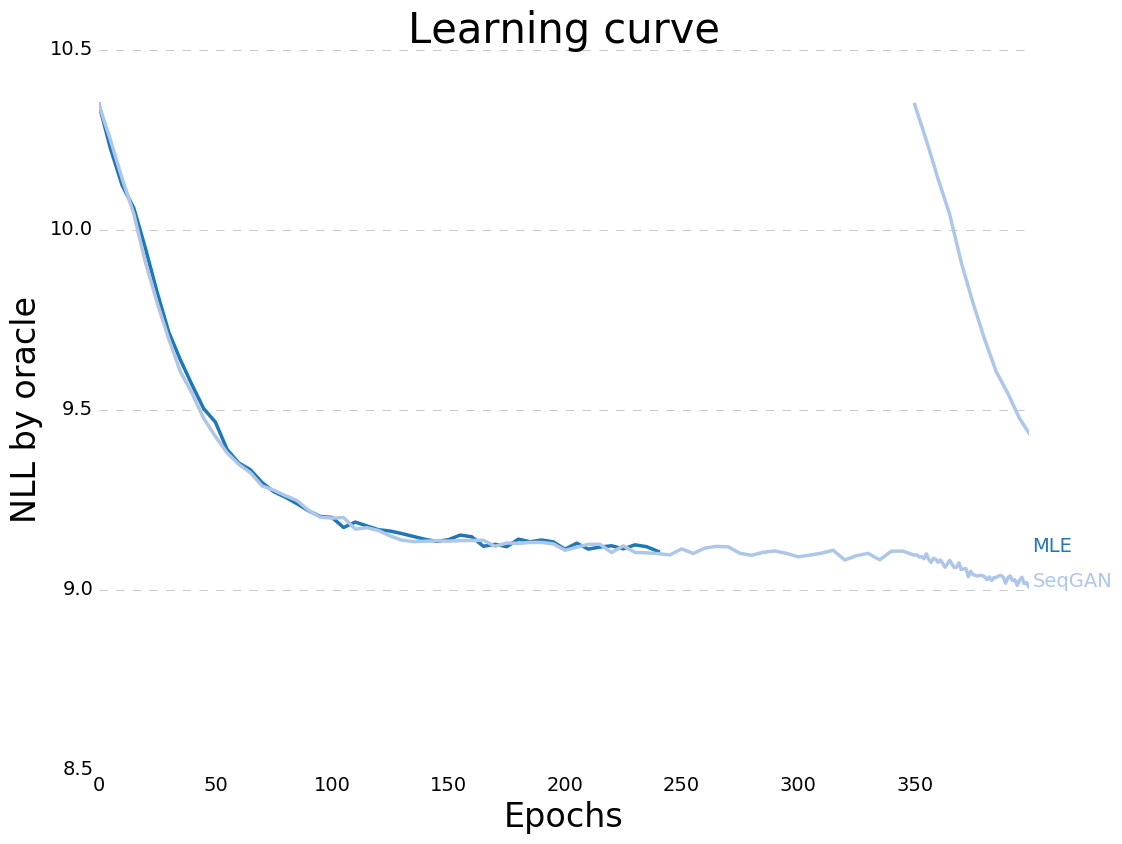
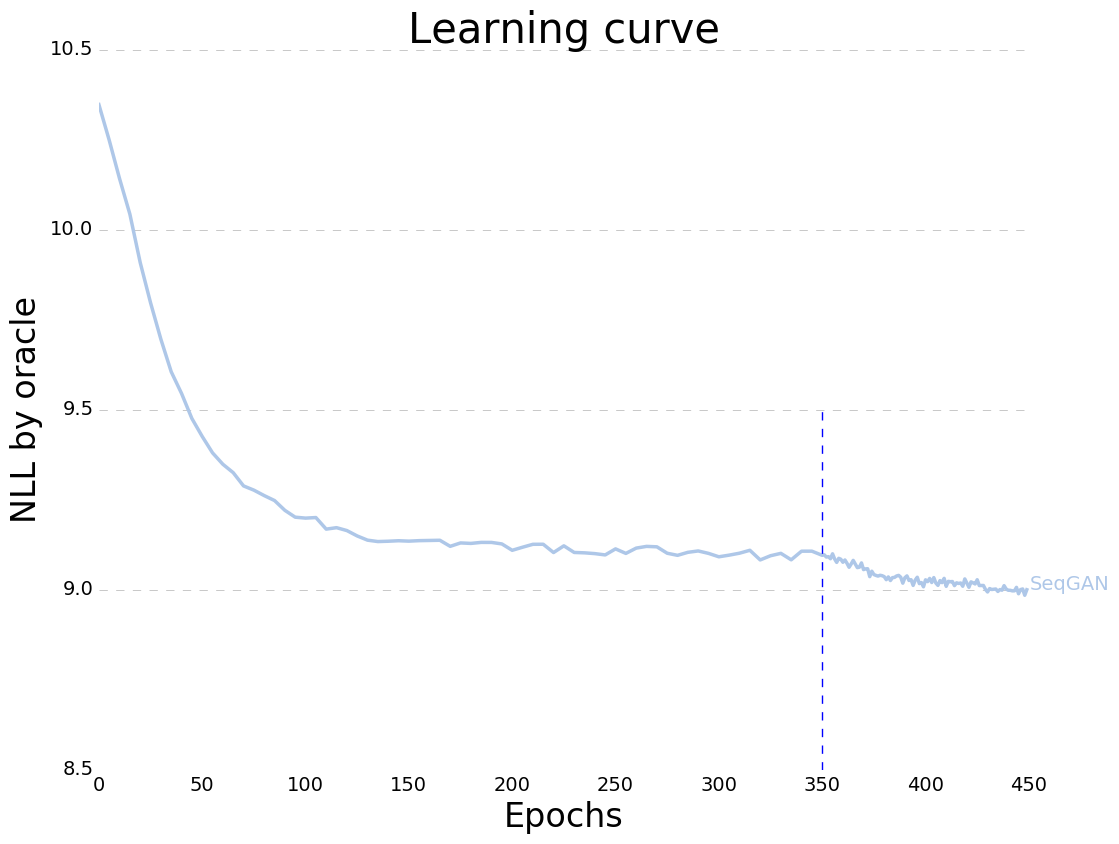
makes nice plot

diff --git a/MLE_SeqGAN/make_plots.py b/MLE_SeqGAN/make_plots.py
@@ -9,6 +9,12 @@ mle_data = cPickle.load(open('save/mle-loss-20170304-015334.pkl'))
 new_seqgan_data = cPickle.load(open('save/seqgan-retrained.pkl'))
 seqgan_data = cPickle.load(open('save/seqgan-loss-20170305-085624.pkl'))
 
+# hacky way to reconstruct full seqgan data
+new_seqgan_data = new_seqgan_data[70:120]
+for i in range(len(new_seqgan_data)): new_seqgan_data[i,0] += 50
+seqgan_data = np.concatenate((seqgan_data, new_seqgan_data), axis=0)
+mle_data = seqgan_data[:71]
+
 # These are the "Tableau 20" colors as RGB.    
 tableau20 = [(31, 119, 180), (174, 199, 232), (255, 127, 14), (255, 187, 120),    
              (44, 160, 44), (152, 223, 138), (214, 39, 40), (255, 152, 150),    
@@ -39,12 +45,12 @@ ax.get_xaxis().tick_bottom()
 ax.get_yaxis().tick_left()  
 print mle_data[0,0], mle_data[-1,0]
 print seqgan_data[0,0], (seqgan_data[-1, 0] + new_seqgan_data[-1,0])
-xmin, xmax, ymin, ymax = min(mle_data[0, 0], seqgan_data[0,0]), max(mle_data[-1,0],seqgan_data[-1,0] + new_seqgan_data[-1,0]), 8.5, 10.5  
+xmin, xmax, ymin, ymax = min(mle_data[0, 0], seqgan_data[0,0]), max(mle_data[-1,0], seqgan_data[-1,0]), 8.5, 10.5  
   
 # Limit the range of the plot to only where the data is.    
 # Avoid unnecessary whitespace.    
 plt.ylim(ymin, ymax)    
-plt.xlim(xmin, xmax)    
+plt.xlim(xmin, xmax+1)    
   
 # Make sure your axis ticks are large enough to be easily read.    
 # You don't want your viewers squinting to read your plot.    
@@ -70,35 +76,35 @@ methods = ['MLE', 'SeqGAN']
 
 for rank, column in enumerate(methods):
     if rank == 0:    
-    	# Plot each line separately with its own color, using the Tableau 20    
-    	# color set in order.    
-    	plt.plot(mle_data[:, 0], mle_data[:,1],    
-            lw=2.5, color=tableau20[rank])
+    # 	# Plot each line separately with its own color, using the Tableau 20    
+    # 	# color set in order.    
+    # 	plt.plot(mle_data[:, 0], mle_data[:,1],    
+    #         lw=2.5, color=tableau20[rank])
   
-    	# Add a text label to the right end of every line. Most of the code below    
-    	# is adding specific offsets y position because some labels overlapped.    
-    	y_pos = mle_data[-1,1]    
+    # 	# Add a text label to the right end of every line. Most of the code below    
+    # 	# is adding specific offsets y position because some labels overlapped.    
+    # 	y_pos = mle_data[-1,1]    
   
-    	# Again, make sure that all labels are large enough to be easily read    
-    	# by the viewer.    
-    	plt.text(xmax + 1.5, y_pos, column, fontsize=14, color=tableau20[rank])      
+    # 	# Again, make sure that all labels are large enough to be easily read    
+    # 	# by the viewer.    
+    # 	plt.text(xmax + 1.5, y_pos, column, fontsize=14, color=tableau20[rank])   
+        pass   
     else:  
     	# Plot each line separately with its own color, using the Tableau 20    
     	# color set in order.    
-    	plt.plot(seqgan_data[:, 0], seqgan_data[:,1],    
+        plt.plot(seqgan_data[:, 0], seqgan_data[:,1], \
             lw=2.5, color=tableau20[rank])
-    	plt.plot(350+new_seqgan_data[:, 0], new_seqgan_data[:,1],    
-            lw=2.5, color=tableau20[rank])
-	print new_seqgan_data[:, 0]
-  
+
     	# Add a text label to the right end of every line. Most of the code below    
     	# is adding specific offsets y position because some labels overlapped.    
     	#y_pos = seqgan_data[-1,1]    
-    	y_pos = seqgan_data[-1,1] + new_seqgan_data[-1,1]    
-  
+        y_pos = seqgan_data[-1,1]
+
     	# Again, make sure that all labels are large enough to be easily read    
     	# by the viewer.    
-    	plt.text(xmax + 1.5, y_pos, column, fontsize=14, color=tableau20[rank])      
+        plt.text(xmax + 1.5, y_pos, column, fontsize=14, color=tableau20[rank]) 
+
+        plt.plot((350, 350), (ymin, 9.5), '--')     
     
   
 # Finally, save the figure as a PNG.    
